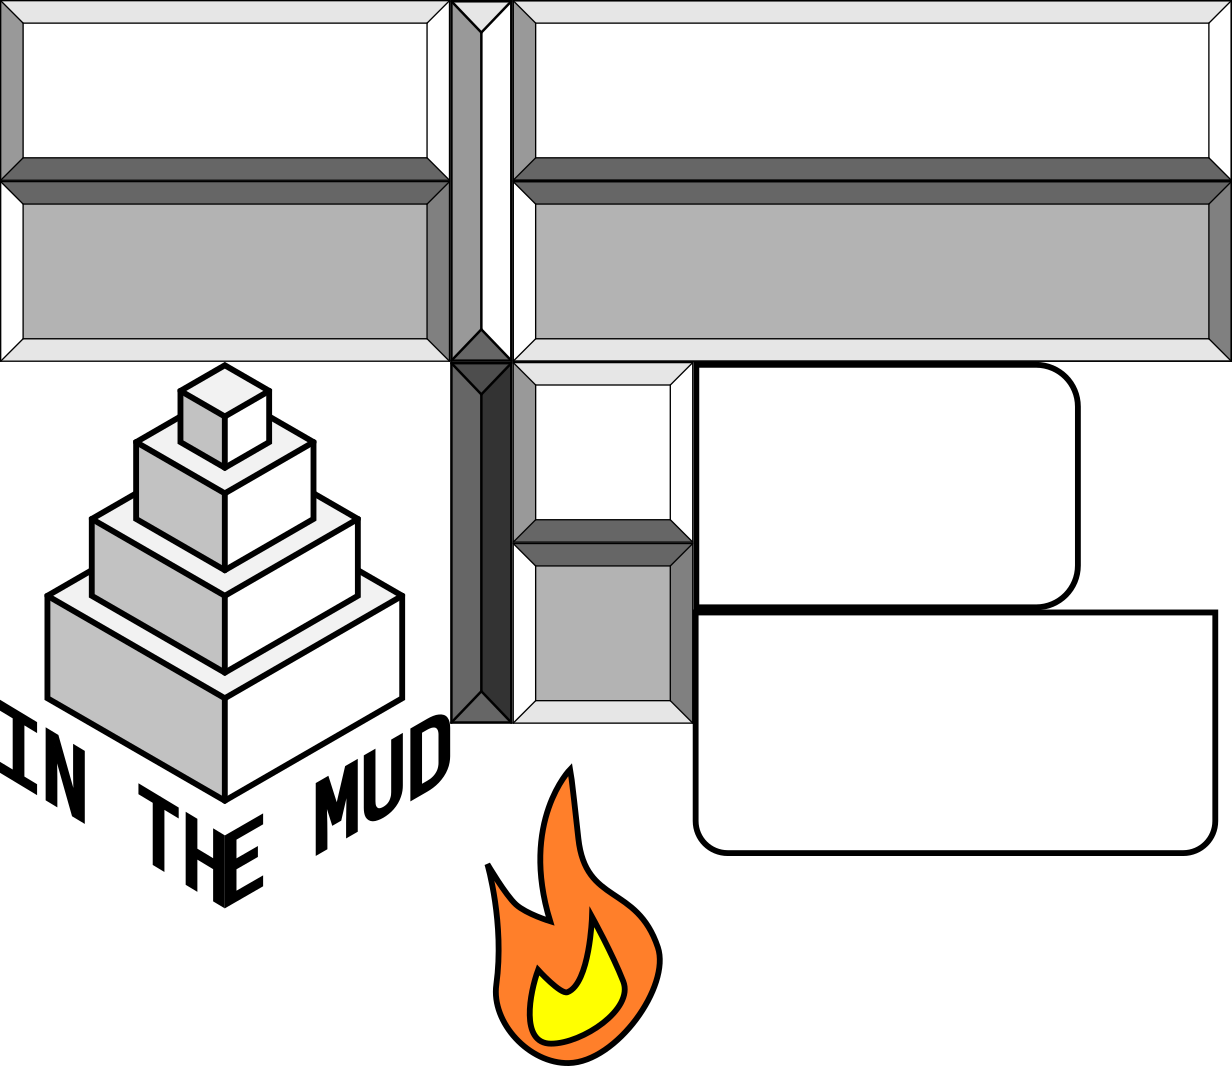
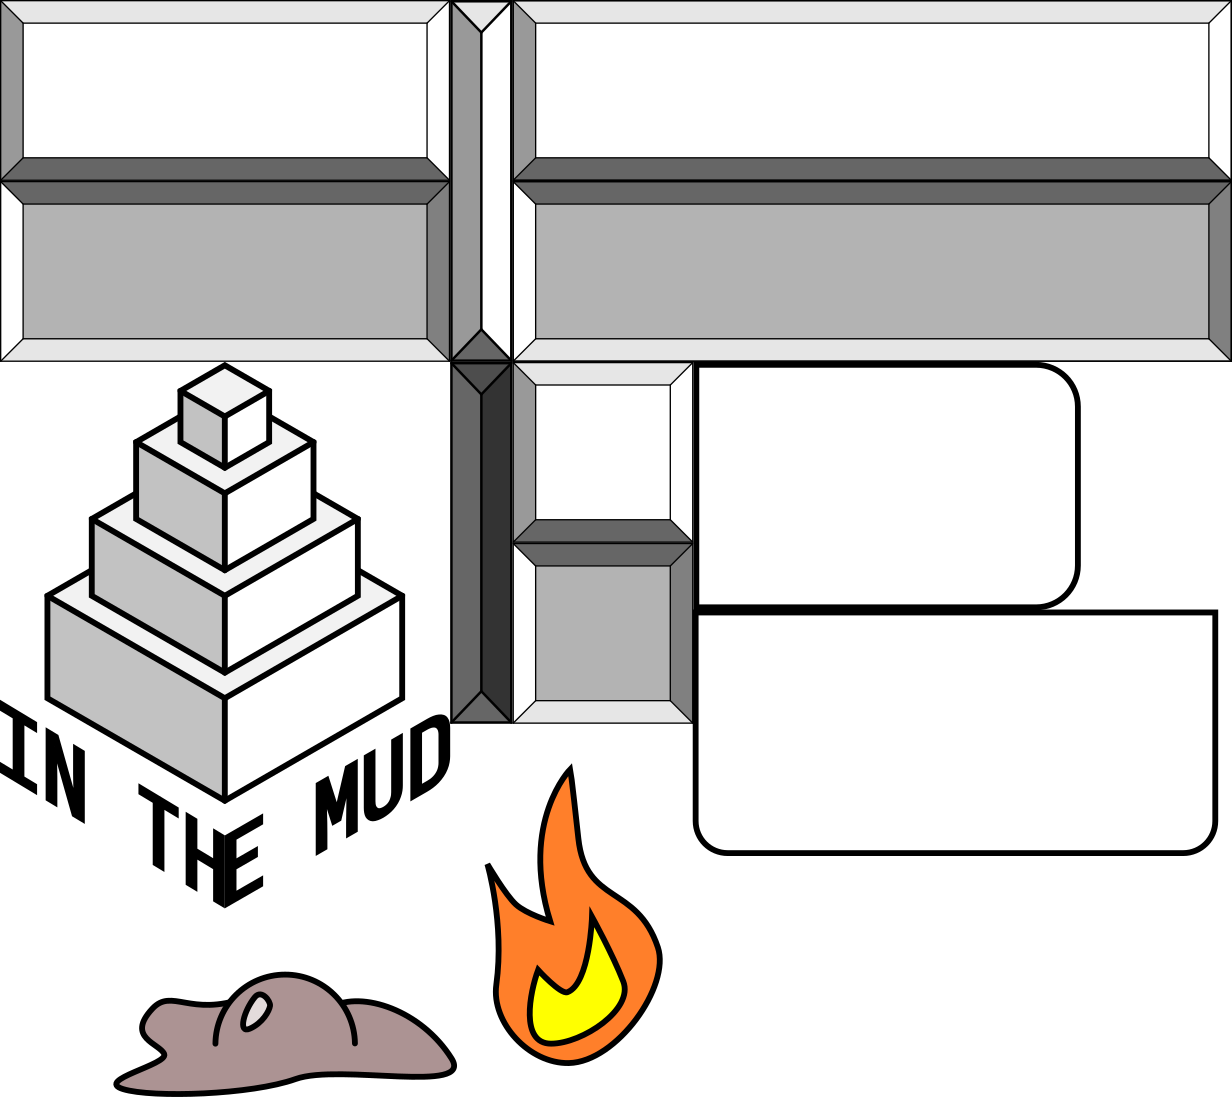
Added mud

diff --git a/src/main/java/io/game/ui/HUD.java b/src/main/java/io/game/ui/HUD.java
@@ -3,6 +3,7 @@ package io.game.ui;
 import core.entities.model.Entity;
 import core.entities.model.EntityType;
 import core.resources.PlayerResourcesView;
+import core.resources.ResourceType;
 import core.turns.PlayerTurnView;
 import io.menu.Image;
 import io.menu.Rectangle;
@@ -33,7 +34,7 @@ public class HUD {
 
     UIComponent content = new HBox(0.1f, buttons);
 
-    Image bannerLeft = new Image(Texture.BANNER_LEFT);
+    ResourceInfo resourceInfo;
     EntityInfo entityInfo;
 
     private final PlayerTurnView turnView;
@@ -42,10 +43,13 @@ public class HUD {
     public HUD(PlayerTurnView turnView, PlayerResourcesView resourcesView) {
         this.turnView = turnView;
         this.resourcesView = resourcesView;
+        resourceInfo = new ResourceInfo(resourcesView.amount(ResourceType.MUD));
     }
 
 
     public void update(ScreenPosition mouse, float aspectRatio, boolean pressed, TextManager mgr) {
+        resourceInfo.setMudCount(resourcesView.amount(ResourceType.MUD));
+
         content.fitInto(new Rectangle(0, 0.01f, 1, 0.1f), mgr);
         buttons.forEach(button -> button.update(mouse, pressed));
 
@@ -53,7 +57,7 @@ public class HUD {
         nextTurn.setPressed(!nextTurnEnabled);
         nextTurn.fitInto(new Rectangle(0.84f, 0.01f, 0.15f, 0.15f), mgr);
         nextTurn.update(mouse, pressed);
-        bannerLeft.fitInto(new Rectangle(0, aspectRatio - 0.15f, 0.1f / bannerLeft.getAspectRatio(mgr), 0.1f), mgr);
+        resourceInfo.fitInto(new Rectangle(0, aspectRatio - 0.15f, 0.1f / resourceInfo.getAspectRatio(mgr), 0.1f), mgr);
         if (entityInfo != null)
             entityInfo.fitInto(new Rectangle(0, aspectRatio - 0.15f, 1, 0.15f), mgr);
     }
@@ -61,7 +65,7 @@ public class HUD {
     public void draw(Canvas canvas) {
         content.draw(canvas);
         nextTurn.draw(canvas);
-        bannerLeft.draw(canvas);
+        resourceInfo.draw(canvas);
         if (entityInfo != null)
             entityInfo.draw(canvas);
     }

diff --git a/src/main/java/io/game/ui/ResourceInfo.java b/src/main/java/io/game/ui/ResourceInfo.java
@@ -1,0 +1,53 @@
+package io.game.ui;
+
+import io.menu.Image;
+import io.menu.Label;
+import io.menu.Rectangle;
+import io.menu.UIComponent;
+import io.model.engine.Canvas;
+import io.model.engine.TextManager;
+import io.model.textures.Texture;
+
+public class ResourceInfo implements UIComponent {
+    private final Image bannerLeft = new Image(Texture.BANNER_LEFT);
+    private final Image mud = new Image(Texture.MUD);
+    private Label number;
+
+    public ResourceInfo(int mudCount) {
+        this.number = new Label(String.valueOf(mudCount));
+    }
+
+    public void setMudCount(int mudCount) {
+        this.number = new Label(String.valueOf(mudCount));
+    }
+
+    @Override
+    public float getAspectRatio(TextManager mgr) {
+        return bannerLeft.getAspectRatio(mgr);
+    }
+
+    @Override
+    public void fitInto(Rectangle rectangle, TextManager mgr) {
+        bannerLeft.fitInto(rectangle, mgr);
+        var rect = this.bannerLeft.getBounds();
+        mud.fitInto(new Rectangle(
+                rect.position.x(),
+                rect.position.y() + 0.01f,
+                rect.width() * 0.7f,
+                rect.height - 0.02f
+        ), mgr);
+        number.fitInto(new Rectangle(
+                rect.position.x() + rect.width() * 0.3f,
+                rect.position.y() + 0.01f,
+                rect.width() / 2,
+                rect.height - 0.02f
+        ), mgr);
+    }
+
+    @Override
+    public void draw(Canvas canvas) {
+        bannerLeft.draw(canvas);
+        mud.draw(canvas);
+        number.draw(canvas);
+    }
+}

diff --git a/src/main/java/gdx_io/TextureBank.java b/src/main/java/gdx_io/TextureBank.java
@@ -48,6 +48,7 @@ public class TextureBank implements io.model.engine.TextureBank {
         textures.put(io.model.textures.Texture.SCROLL_BACK_BOT, new TextureRegion(ui, 450, 689, 62, 34));
         textures.put(io.model.textures.Texture.LOGO, new TextureRegion(ui, 0, 362, 449, 544));
         textures.put(io.model.textures.Texture.FIRE, new TextureRegion(ui, 484, 762, 180, 307));
+        textures.put(io.model.textures.Texture.MUD, new TextureRegion(ui, 109, 970, 349, 127));
         textures.put(io.model.textures.Texture.FOG, new TextureRegion(tiles, 5, 236, 326, 212));
         textures.put(io.model.textures.Texture.FOG_LEFT, new TextureRegion(tiles, 9, 498, 329, 282));
         textures.put(io.model.textures.Texture.FOG_RIGHT, new TextureRegion(tiles, 381, 530, 325, 282));

diff --git a/src/main/java/io/model/textures/Texture.java b/src/main/java/io/model/textures/Texture.java
@@ -46,6 +46,7 @@ public enum Texture {
     BANNER_LEFT(246f / 386f),
     BANNER_TOP(247f / 524f),
     FIRE(307f / 180f),
+    MUD(127f / 349f),
     ;
     private final float ratio;
 
